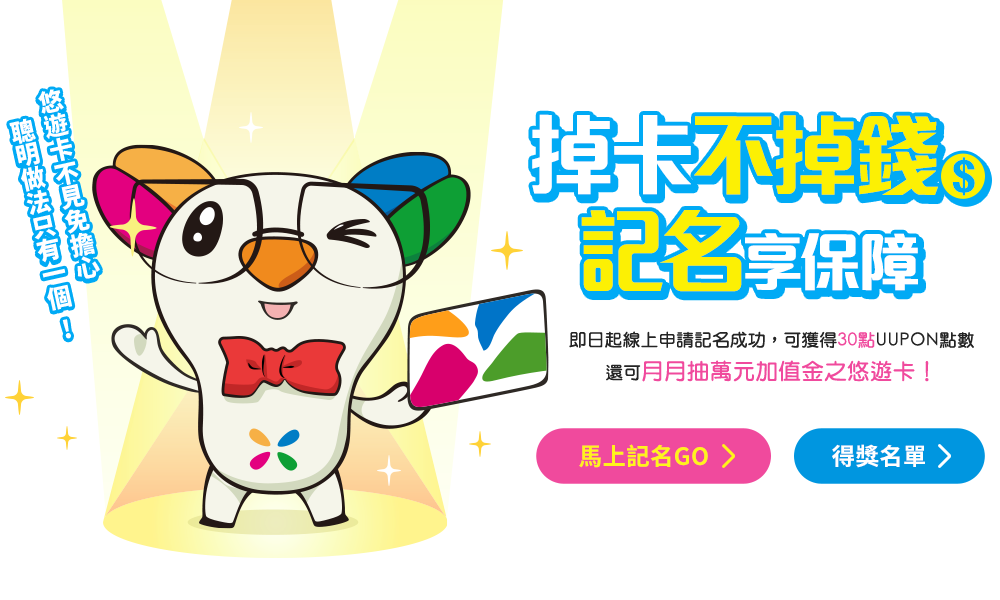
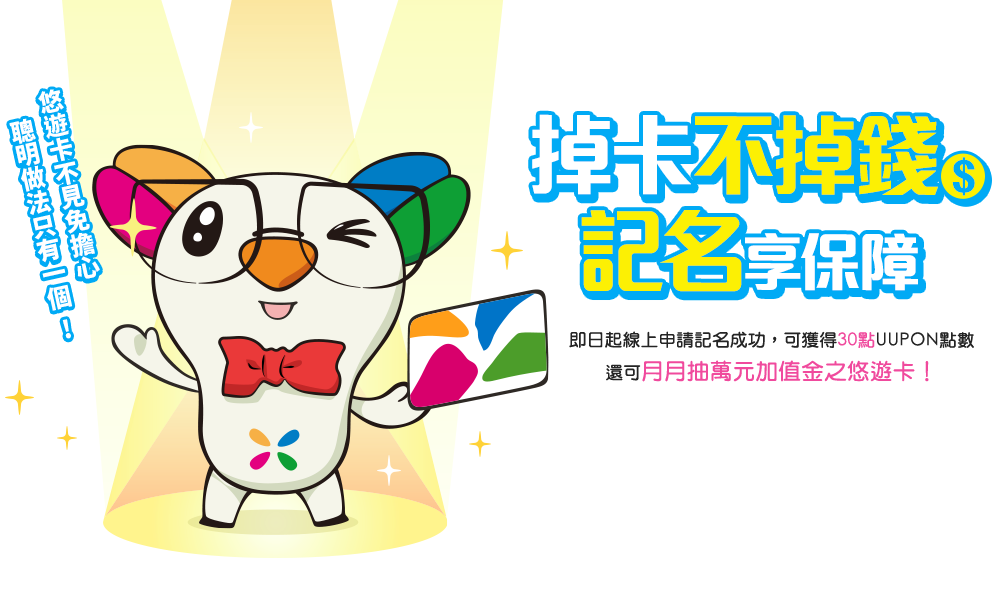
fixed w = 1000

Changed region(s): [[0.527, 0.69, 0.992, 0.81]]

diff --git a/demo/EasyCard/css/style.css b/demo/EasyCard/css/style.css
@@ -222,6 +222,22 @@ a {
     margin: 0 auto;
     background-image: url(../images/top-kv-dummy-1000.png);
   }
+
+  .top-btn-1 {
+    top: 428px;
+    left: 536px;
+    width: 235px;
+    height: 56px;
+    background-image: url(../images/top-btn-1.png);
+  }
+
+  .top-btn-2 {
+    top: 428px;
+    left: 794px;
+    width: 191px;
+    height: 56px;
+    background-image: url(../images/top-btn-2.png);
+  }
 }
 
 @media only screen and (max-width: 640px) {
